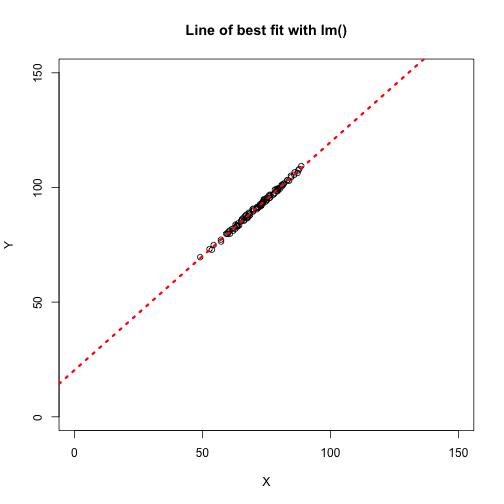
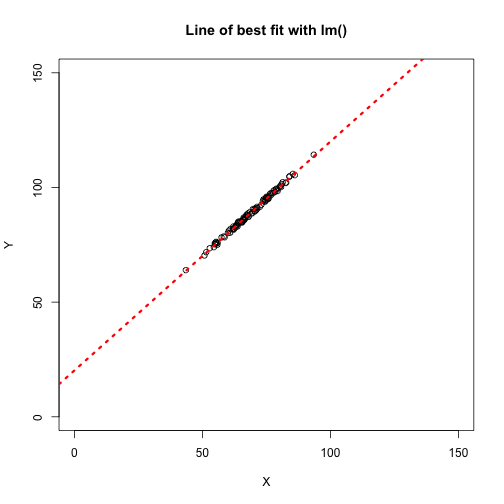
Working on intro_day2
f

diff --git a/r_course/introToR_Session2.md b/r_course/introToR_Session2.md
@@ -128,10 +128,10 @@ Conditions and Loops (2/21) - Two important control structures
 
 
 
-- Conditional branching (if,else)
-- Loops (for, while)
+* <span style="color:red">Conditional branching (if,else)</span>
+* <span style="color:green">Loops (for, while)</span>
 
-**While** I'm analysing data, **if** I need to execute complex statistical procedures on the data I will use R **else** I will use a calculator.
+<span style="color:green">While</span> I'm analysing data, <span style="color:red">if</span> I need to execute complex statistical procedures on the data I will use R <span style="color:red">else</span> I will use a calculator.
 
 Conditions and Loops (3/21) - Conditional Branching.
 ========
@@ -168,12 +168,12 @@ More often, we construct the logical value within **()** itself.This can be term
 x <- 10
 y <- 4
 if(x > y){
-  message("The value of x is ",x," is greater than ", y)
+  message("The value of x is ",x," which is greater than ", y)
 }
 ```
 
 ```
-The value of x is 10 is greater than 4
+The value of x is 10 which is greater than 4
 ```
 Here the message is printed because x is greater than y. 
 
@@ -181,7 +181,7 @@ Here the message is printed because x is greater than y.
 ```r
 y <- 20
 if(x > y){
-  message("The value of x is ",x," is greater than ", y)
+  message("The value of x is ",x," which is greater than ", y)
 }
 ```
 Here, x is not longer greater than y, so no message is printed.
@@ -195,14 +195,7 @@ If we want to perform an operation when the condition is false we can follow the
 
 
 ```r
-x < - 10
-```
-
-```
-[1] FALSE
-```
-
-```r
+x <- 10
 if(x < 5){
   message(x, " is less than to 5")
    }else{
@@ -261,7 +254,11 @@ A useful function to evaluate conditional statements over vectors is the **ifels
 
 ```r
 x <- 1:10
-message(x)
+x
+```
+
+```
+ [1]  1  2  3  4  5  6  7  8  9 10
 ```
 
 The ifelse() functions take the arguments of the condition to evaluate, the action if the condition is true and the action when condition is false.
@@ -276,7 +273,7 @@ ifelse(x <= 3,"lessOrEqual","more")
  [6] "more"        "more"        "more"        "more"        "more"       
 ```
 
-This allows for multiple nested "else if" statements to be applied to vectors.
+This allows for multiple nested **ifelse** functions to be applied to vectors.
 
 
 ```r
@@ -312,6 +309,9 @@ while(x != 3){
 
 ```
 x is 1 
+```
+
+```
 x is 2 
 ```
 
@@ -338,7 +338,23 @@ for(i in x){
 ```
 
 ```
-Loop1 Loop2 Loop3 Loop4 Loop5
+Loop1
+```
+
+```
+Loop2
+```
+
+```
+Loop3
+```
+
+```
+Loop4
+```
+
+```
+Loop5
 ```
 ***
 Similarly we can cycle through other vector types (or lists)
@@ -351,7 +367,23 @@ for(i in x){
 ```
 
 ```
-LoopA LoopB LoopC LoopD LoopE
+LoopA
+```
+
+```
+LoopB
+```
+
+```
+LoopC
+```
+
+```
+LoopD
+```
+
+```
+LoopE
 ```
 
 
@@ -381,7 +413,13 @@ for(i in 1:length(geneName)){
 
 ```
 Ikzf1 has an RPKM of 10.4
+```
+
+```
 Myc has an RPKM of 4.3
+```
+
+```
 Igll1 has an RPKM of 6.5
 ```
 
@@ -408,17 +446,53 @@ for(i in 1:13){
 
 ```
 Number 1 is less than  10
+```
+
+```
 Number 2 is less than  10
+```
+
+```
 Number 3 is less than  10
+```
+
+```
 Number 4 is less than  10
+```
+
+```
 Number 5 is less than  10
+```
+
+```
 Number 6 is less than  10
+```
+
+```
 Number 7 is less than  10
+```
+
+```
 Number 8 is less than  10
+```
+
+```
 Number 9 is less than  10
+```
+
+```
 Number 10 is  10
+```
+
+```
 Number 11 is greater than 10
+```
+
+```
 Number 12 is greater than 10
+```
+
+```
 Number 13 is greater than 10
 ```
 
@@ -446,14 +520,41 @@ for(i in 1:13){
 
 ```
 Number 1 is less than 10
+```
+
+```
 Number 2 is less than 10
+```
+
+```
 Number 3 is less than 10
+```
+
+```
 Number 4 is less than 10
+```
+
+```
 Number 5 is less than 10
+```
+
+```
 Number 6 is less than 10
+```
+
+```
 Number 7 is less than 10
+```
+
+```
 Number 8 is less than 10
+```
+
+```
 Number 9 is less than 10
+```
+
+```
 Number 10 is  10
 ```
 
@@ -710,7 +811,7 @@ mean(x)
 ```
 
 ```
-[1] 71.59924
+[1] 68.78336
 ```
 
 ```r
@@ -725,7 +826,7 @@ plot(Y~X,data=lmExample,main="Line of best fit with lm()",
 abline(lmResult,col="red",lty=3,lwd=3)
 ```
 
-![plot of chunk unnamed-chunk-35](introToR_Session2-figure/unnamed-chunk-35-1.png) 
+![plot of chunk unnamed-chunk-35](introToR_Session2-figure/unnamed-chunk-35-1.png)
 
 
 Functions (2/) - Functions can be defined in R
@@ -879,7 +980,7 @@ $Calculation
 [1] 100
 
 $DateRun
-[1] "Thu May 14 23:43:58 2015"
+[1] "Fri Mar  4 18:58:51 2016"
 ```
 
 Functions (8/) -Scope
@@ -965,7 +1066,7 @@ dayOfWeek()
 ```
 
 ```
-[1] "Thu"
+[1] "Fri"
 ```
 
 Rscript
